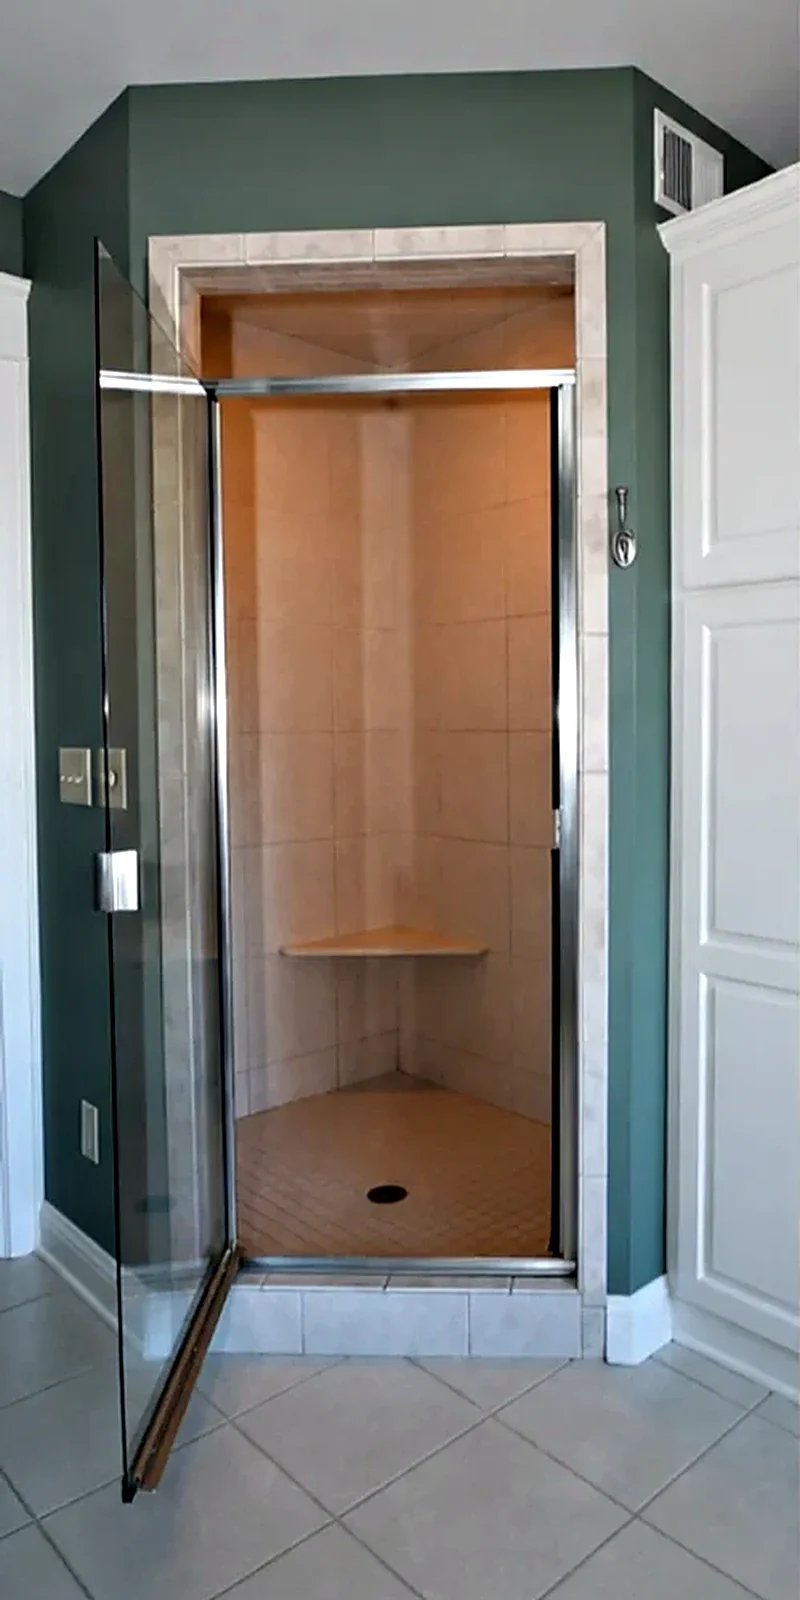
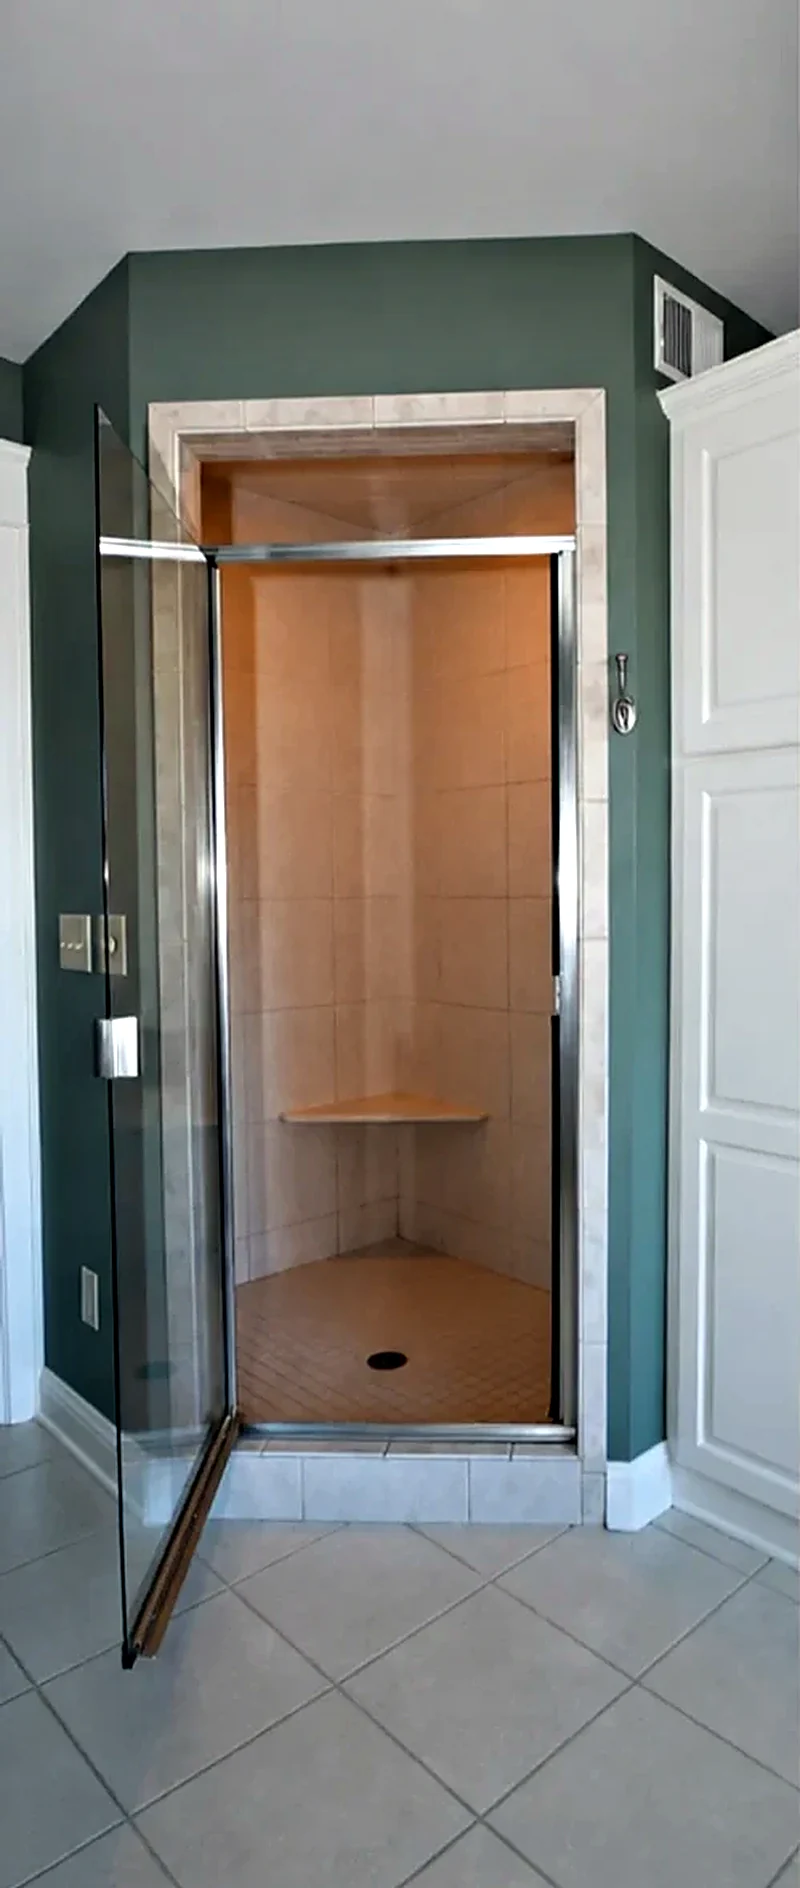
Bathroom card: frame matches full after photo (no crop), sweep replays on re-entry
Claude-Session: https://claude.ai/code/session_01MuStzRBgTPULtyMzPKvxtS

diff --git a/site/script.js b/site/script.js
@@ -84,19 +84,27 @@ document.getElementById('year').textContent=new Date().getFullYear();
   addEventListener('scroll',()=>{if(!ticking){ticking=true;requestAnimationFrame(upd)}},{passive:true});upd();
 })();
 
-// featured bathroom card: 3D entrance, then auto before/after sweeps (back and forth twice) that rest on the result
+// featured bathroom card: 3D entrance, then auto before/after sweeps (back and forth twice) that rest on the result.
+// Replays every time the card comes back into view.
 (function(){
   const card=document.getElementById('bathCard'),ba=document.getElementById('ba2');if(!card||!ba)return;
   const set=v=>ba.style.setProperty('--pos',v+'%');
   const reduce=matchMedia('(prefers-reduced-motion: reduce)').matches;
   if(reduce||!('IntersectionObserver' in window)){set(0);ba.classList.add('done');return;}
-  const legs=[[10,1000],[90,1200],[10,1200],[90,1200],[0,1100]]; // [target %, ms]; last leg rests on the AFTER photo
+  const legs=[[8,900],[92,1100],[8,1100],[92,1100],[0,1000]]; // [target %, ms]; last leg rests on the AFTER photo
   const ease=t=>t<.5?2*t*t:1-Math.pow(-2*t+2,2)/2;
-  function run(){let i=0,from=92,t0=null;
-    (function step(ts){if(t0===null)t0=ts;const [to,dur]=legs[i],p=Math.min((ts-t0)/dur,1);
+  let token=0,timers=[],active=false;
+  function reset(){token++;timers.forEach(clearTimeout);timers=[];set(92);ba.classList.remove('done');card.classList.remove('in','text-in');}
+  function run(tok){let i=0,from=92,t0=null;
+    (function step(ts){if(tok!==token)return;if(t0===null)t0=ts;const [to,dur]=legs[i],p=Math.min((ts-t0)/dur,1);
       set(from+(to-from)*ease(p));
       if(p>=1){from=to;i++;t0=null;if(i>=legs.length){ba.classList.add('done');return}}
       requestAnimationFrame(step)})(performance.now());}
-  new IntersectionObserver((es,ob)=>{es.forEach(e=>{if(e.isIntersecting){
-    card.classList.add('in');setTimeout(()=>card.classList.add('text-in'),1000);setTimeout(run,700);ob.disconnect();}})},{threshold:.25}).observe(card.querySelector('.ba3d'));
+  function start(){const tok=++token;card.classList.add('in');
+    timers.push(setTimeout(()=>{if(tok===token)card.classList.add('text-in')},1000));
+    timers.push(setTimeout(()=>{if(tok===token)run(tok)},800));}
+  new IntersectionObserver(es=>{es.forEach(e=>{
+    if(e.isIntersecting&&e.intersectionRatio>=.45&&!active){active=true;start();}
+    else if(!e.isIntersecting&&active){active=false;reset();}
+  })},{threshold:[0,.45]}).observe(card.querySelector('.ba3d'));
 })();

diff --git a/site/index.html b/site/index.html
@@ -87,8 +87,8 @@
     <article class="service service-feature" id="bathCard">
       <div class="ba3d">
         <div class="ba ba-card" id="ba2" style="--pos:92%">
-          <img class="ba-img" src="bath-before.webp" alt="Dated corner shower with framed swing door, small tile and green walls" width="800" height="1600" loading="lazy" decoding="async" draggable="false">
-          <img class="ba-img ba-after" src="bath-after.webp" alt="Remodeled frameless glass shower with large-format tile, chevron niche and rain shower" width="800" height="1600" loading="lazy" decoding="async" draggable="false">
+          <img class="ba-img" src="bath-before.webp" alt="Dated corner shower with framed swing door, small tile and green walls" width="800" height="1888" loading="lazy" decoding="async" draggable="false">
+          <img class="ba-img ba-after" src="bath-after.webp" alt="Remodeled frameless glass shower with large-format tile, chevron niche and rain shower" width="800" height="1888" loading="lazy" decoding="async" draggable="false">
           <span class="ba-tag ba-tag-l">Before</span><span class="ba-tag ba-tag-r">After</span>
           <div class="ba-line"><span class="ba-knob">◂ ▸</span></div>
         </div>

diff --git a/site/styles.css b/site/styles.css
@@ -371,3 +371,7 @@ body{max-width:480px;margin:0 auto;box-shadow:0 0 60px rgba(0,0,0,.5);min-height
 .anim .service-feature .body>:nth-child(3){transition-delay:.24s}
 .anim .service-feature .body>:nth-child(4){transition-delay:.36s}
 .anim .service-feature.text-in .body>*{opacity:1;transform:none}
+
+/* bathroom card v3: exact aspect of the full "after" photo, nothing cropped */
+.service-feature .ba-card{aspect-ratio:572/1350;max-height:none;width:100%}
+.service-feature .ba-img{object-fit:cover;object-position:50% 50%}
